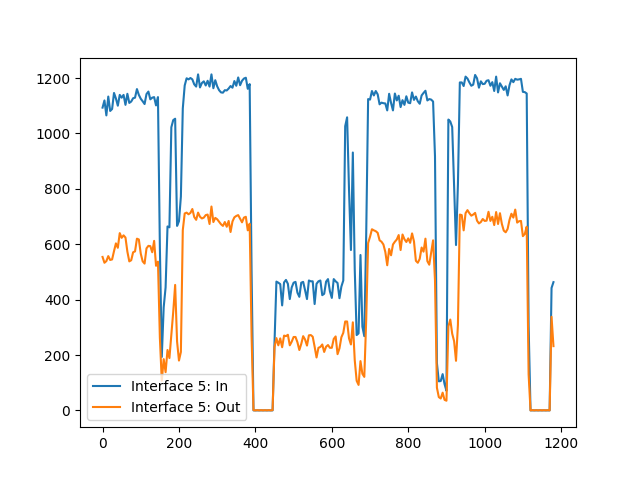
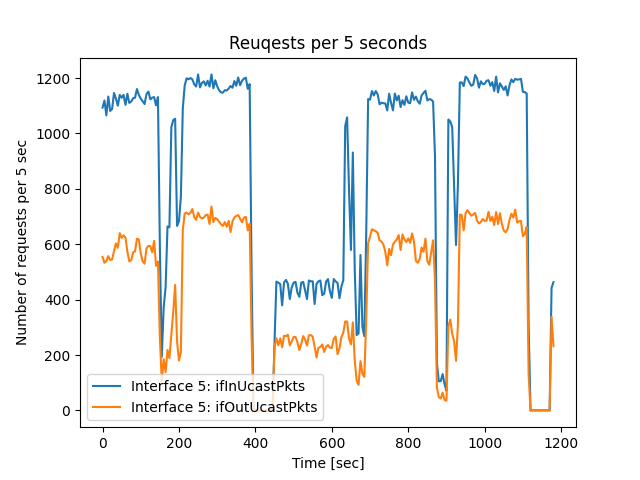
feat: add labels to 1.2 and 1.3 plots

diff --git a/1.2/graph.py b/1.2/graph.py
@@ -1,6 +1,6 @@
 import matplotlib.pyplot as plt
 
-graphs = "1.3"
+graphs = "1.2"
 
 
 def formatLine(line):
@@ -9,9 +9,9 @@ def formatLine(line):
 
 def plotFile(plt, fileName):
     if ("in" in fileName):
-        legend = "Interface %s: In" % fileName.split(".")[-1]
+        legend = "Interface %s: ifInUcastPkts" % fileName.split(".")[-1]
     else:
-        legend = "Interface %s: Out" % fileName.split(".")[-1]
+        legend = "Interface %s: ifOutUcastPkts" % fileName.split(".")[-1]
     with open("data/%s/%s" % (graphs, fileName)) as f:
         data = f.readlines()
         attributes = [formatLine(line) for line in data]
@@ -21,11 +21,16 @@ def plotFile(plt, fileName):
         plt.plot(x, attributes, label=legend)
 
 
-plotFile(plt, "in.6")
-plotFile(plt, "in.7")
-plotFile(plt, "out.6")
-plotFile(plt, "out.7")
+#plotFile(plt, "in.6")
+#plotFile(plt, "in.7")
+#plotFile(plt, "out.6")
+#plotFile(plt, "out.7")
+plotFile(plt, "in.5")
+plotFile(plt, "out.5")
 
+plt.title("Reuqests per 5 seconds")
+plt.xlabel("Time [sec]")
+plt.ylabel("Number of requests per 5 sec")
 plt.legend()
 plt.savefig("graphs/" + graphs + ".png")
 plt.show()
